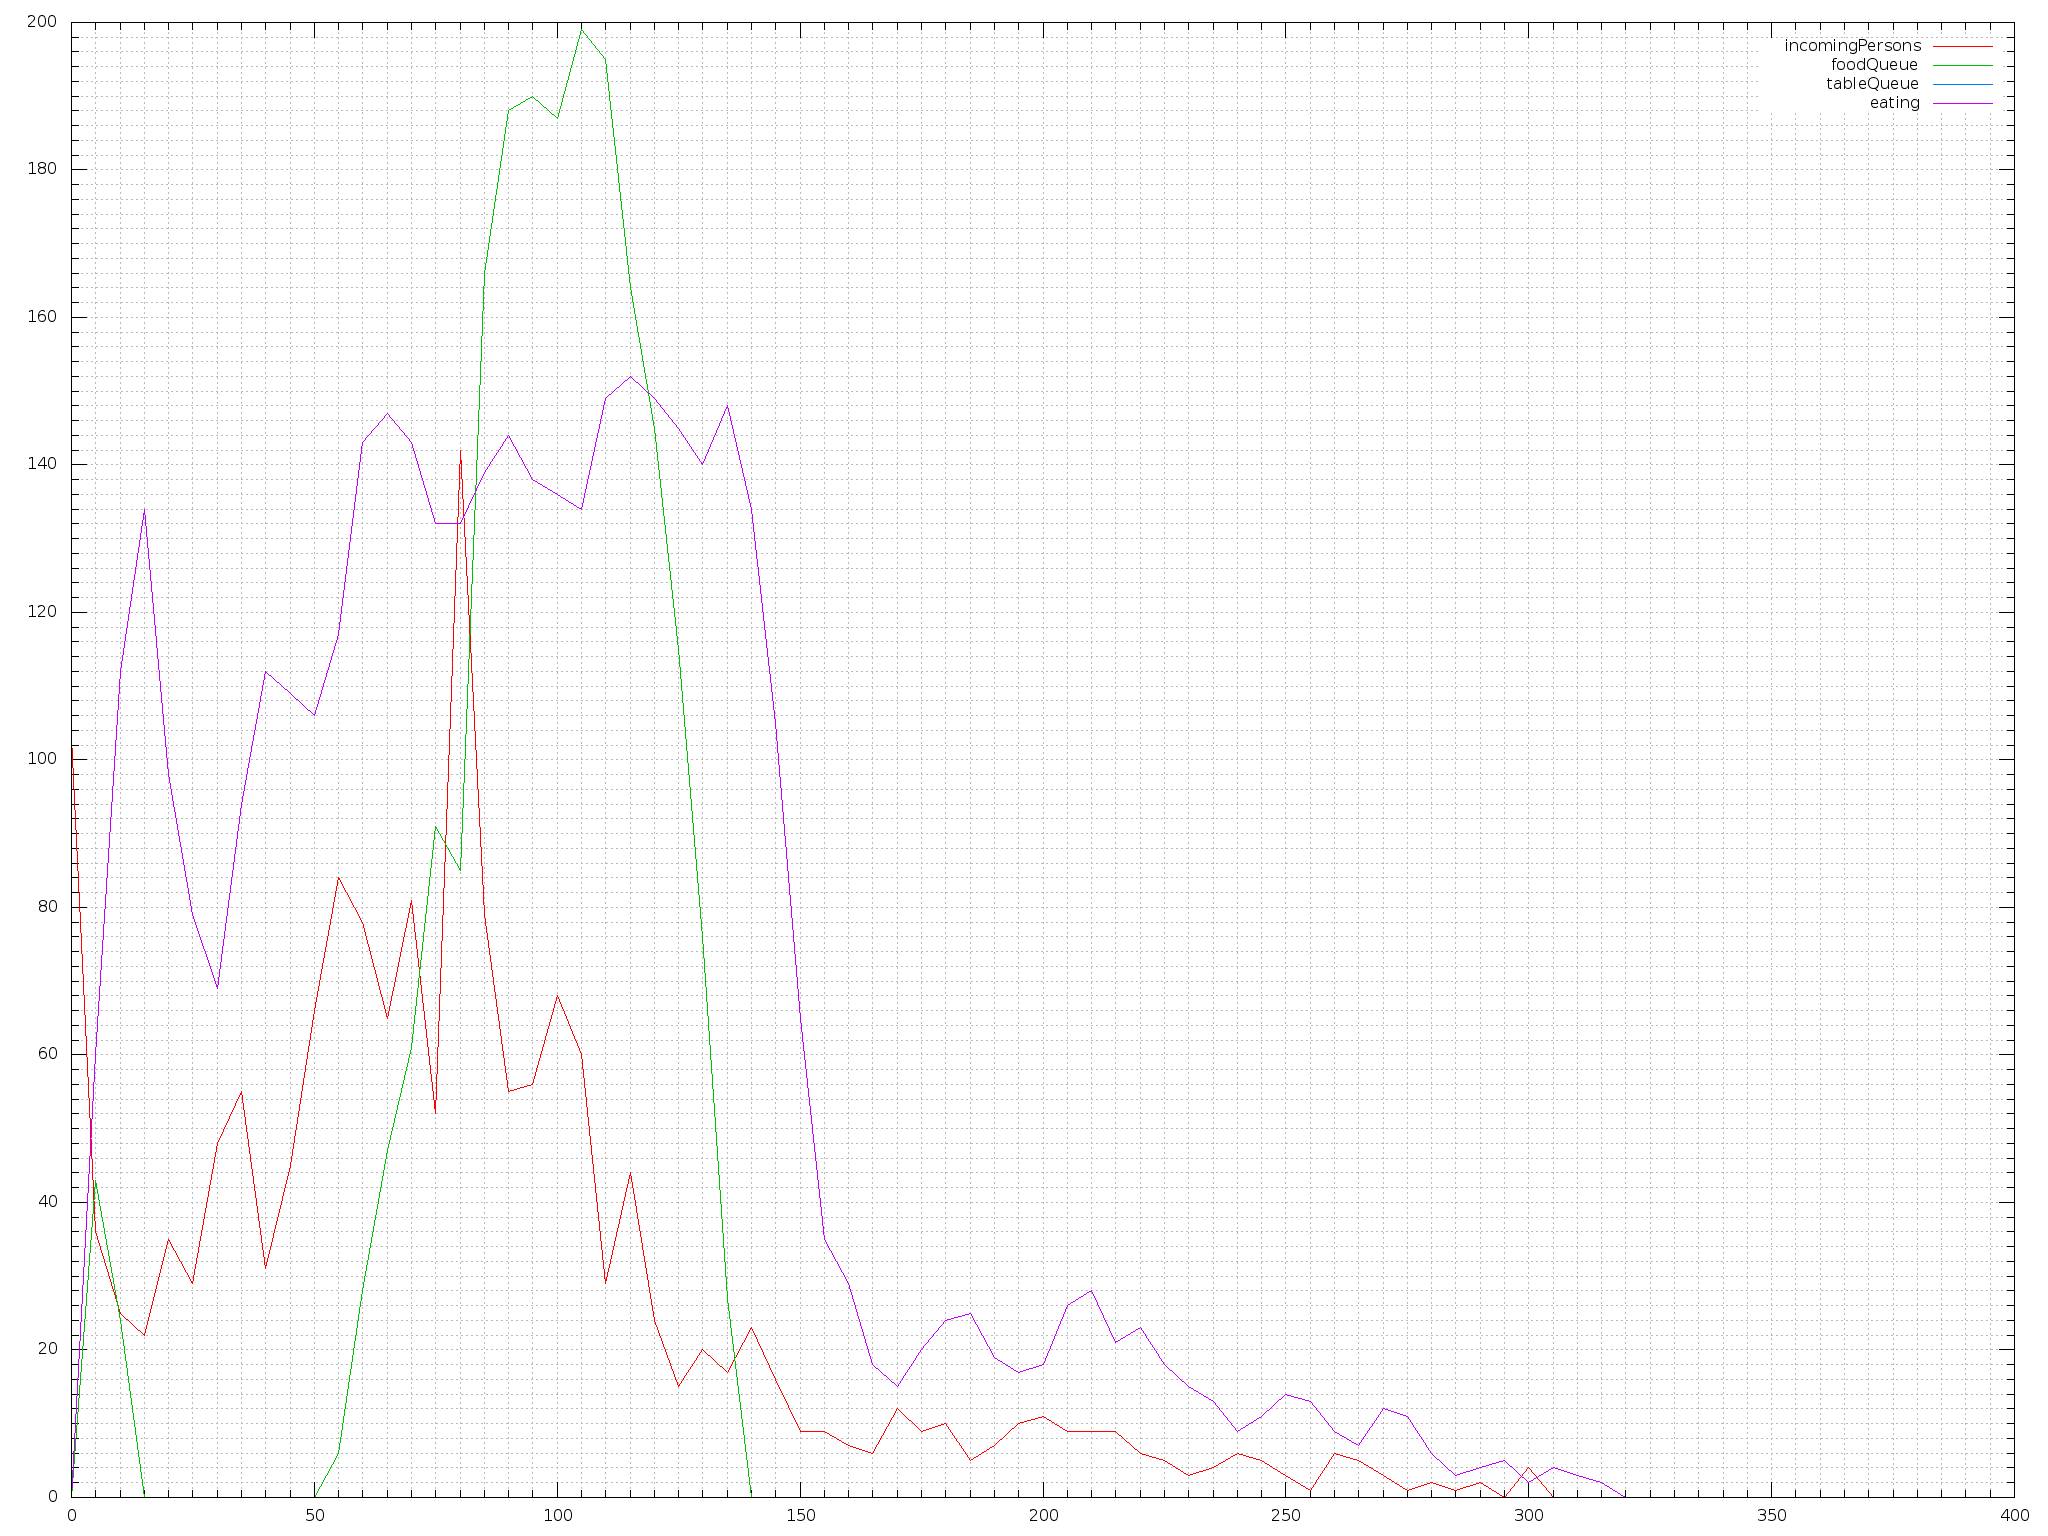
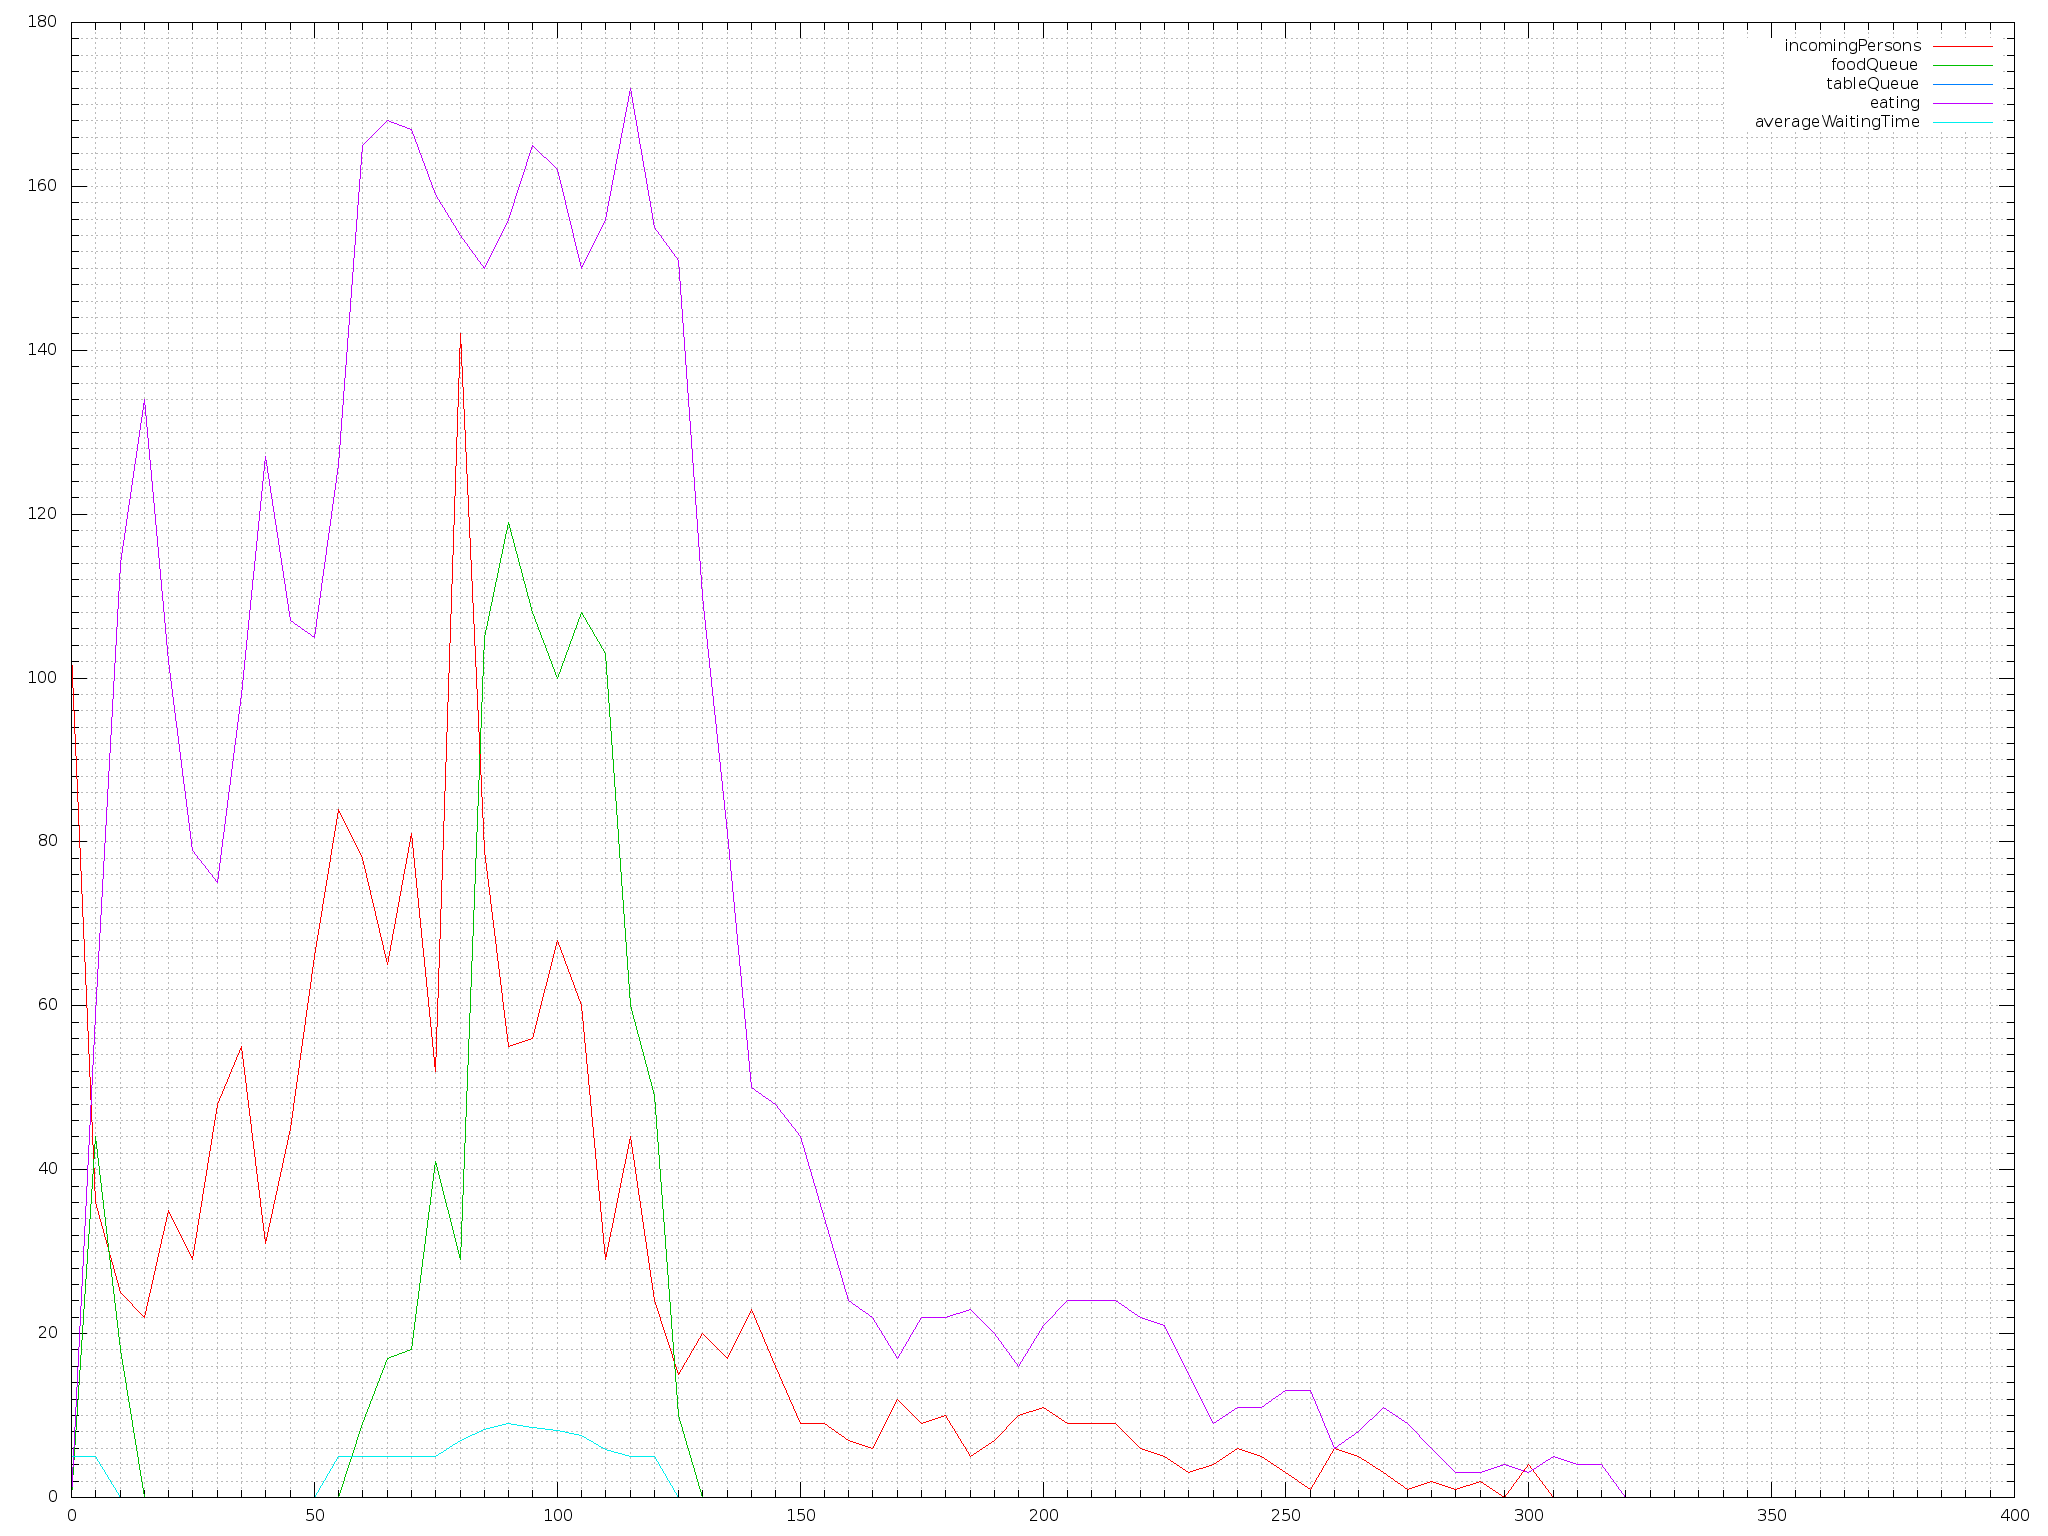
Avegare waiting time is now working, clean up packages

diff --git a/Canteen/src/canteen/CanteenSimulation.java b/Canteen/src/canteen/CanteenSimulation.java
@@ -12,6 +12,10 @@ import canteen.result.ResultsHolder;
 import java.io.IOException;
 import java.util.ArrayList;
 
+import others.CalculateAvegare;
+import others.IncomingPersons;
+import others.ParametersManager;
+
 public class CanteenSimulation {
 
 	int currentTime = 0;
@@ -67,18 +71,21 @@ public class CanteenSimulation {
 			i++;
 		}
 		
+		calculateWaitingTime();
+		
 		if(ParametersManager.isDebug()){
 			System.out.println("Total persons incoming: "+incomingPersons.getSumOfAllIncomingPersons());
 			System.out.println("Total persons in last step: "+resultHolder.getSumOfAllPersons());
+			System.out.println("Avegare waiting time: ");
+			resultHolder.writeAllWaitingTimes();
 			
 		}
+		
+		
 
 	}
 
-	public void writeDebugResults() {
-		resultHolder.writeAll();
-	}
-
+	
 	public ArrayList<Result> getResults() throws Exception {
 		ArrayList<Result> results = resultHolder.getAllResults();
 		if (results.size() > 0) {
@@ -89,52 +96,35 @@ public class CanteenSimulation {
 		}
 	}
 
-	public double howLongTakeToReachEatingStateAtTime(int atTime) {
+
+	private double howLongTakeToReachEatingStateAtTime(int atTime) {
         ArrayList<Person> personsWithTime = personHolder.getPersonsWithArrivalTime(atTime);
-        int i = 0;
-        int sum = 0;
+        ArrayList<Integer> times = new ArrayList<>();
+        
         for(Person person : personsWithTime){
         	if (person.getDispatchTime() != 0) {
-        		int diff = Math.abs(person.getDispatchTime() - person.getArrivalTime());
-        		System.out.println("----");
-        		System.out.println(atTime+": Diff "+diff);
-        		System.out.println(atTime+": Arrival "+person.getArrivalTime());
-        		System.out.println(atTime+": Dispatch "+person.getDispatchTime());
-                sum = sum + diff;
-                i++;
+        		Integer diff = person.getDispatchTime() - person.getArrivalTime();
+        		times.add(diff);
         	}
-        	else {
-        		// simulation needs more time
-        		i = 1;
-        		sum = -1;
-        		break;
-        	}
-        	
         }
         
-        // no person at this time
-        double mean = -2;
-        if (i != 0) {
-            mean = (double) sum / (double) i;
-        }
-        return mean;
+        return CalculateAvegare.calculate(times);
         
     }
-
-	public ArrayList<Double> getAllWaitingTimes() {
+	
+	
+	private void calculateWaitingTime(){
 		ArrayList<Double> waitingTimes = new ArrayList<>();
 		for (int i = 0; i < (parametersManager.getSimulationTime() * parametersManager.getSimulationStep()); i = i + parametersManager.getSimulationStep()) {
 			waitingTimes.add(howLongTakeToReachEatingStateAtTime(i));
 		}
-
-		return waitingTimes;
+		resultHolder.setWaitingTimes(waitingTimes);
 	}
 
-	public void writeAllWaitingTimes() {
-		for (Double time : getAllWaitingTimes()) {
-			System.out.println(time);
-		}
+	public ArrayList<Double> getWaitingTimes() {
+		return resultHolder.getAllWaitingTimes();
 	}
+
 
 	public void saveToCSV(String filename, String divider) throws Exception {
 		try {

diff --git a/Canteen/src/canteen/result/ResultsHolder.java b/Canteen/src/canteen/result/ResultsHolder.java
@@ -1,6 +1,5 @@
 package canteen.result;
 
-import canteen.IncomingPersons;
 import canteen.person.PersonHolder;
 import canteen.person.PersonState;
 import canteen.result.Result;
@@ -10,9 +9,12 @@ import java.io.PrintWriter;
 import java.lang.reflect.WildcardType;
 import java.util.ArrayList;
 
+import others.IncomingPersons;
+
 public class ResultsHolder {
 
 	ArrayList<Result> results = new ArrayList<>();
+	ArrayList<Double> waitingTimes = new ArrayList<>();
 
 	public void addResult(int time, PersonHolder personHolder) {
 		Result result = new Result(time,
@@ -26,6 +28,21 @@ public class ResultsHolder {
 	public ArrayList<Result> getAllResults() {
 		return results;
 	}
+	
+	public ArrayList<Double> getAllWaitingTimes(){
+		return waitingTimes;
+	}
+	
+	public void setWaitingTimes(ArrayList<Double> newWatitngTimes){
+		waitingTimes = newWatitngTimes;
+	}
+	
+	public void writeAllWaitingTimes() {
+		for (Double time : waitingTimes) {
+			System.out.println(time);
+		}
+	}
+	
 	
 	public int getSumOfAllPersons(){
 		int sum = 0;
@@ -69,7 +86,8 @@ public class ResultsHolder {
 					+ result.getNumberOfPeopleInFoodQueue() + divider
 					+ result.getNumberOfPeopleInTableQueue() + divider
 					+ result.getNumberOfPeopleEating() + divider
-					+ result.getNumberOfPeopleFinished());
+					+ result.getNumberOfPeopleFinished() + divider
+					+ waitingTimes.get(i));
 			i++;
 		}
 		writer.close();

diff --git a/Canteen/src/others/CalculateAvegare.java b/Canteen/src/others/CalculateAvegare.java
@@ -1,0 +1,39 @@
+package others;
+
+import java.util.ArrayList;
+import java.util.Collections;
+
+public class CalculateAvegare {
+	public static double calculate(ArrayList<Integer> values) {
+
+		Collections.sort(values);
+		
+		/*
+		// Calculate median (middle number)
+		double median = 0;
+		double pos1 = Math.floor((values.size() - 1.0) / 2.0);
+		double pos2 = Math.ceil((values.size() - 1.0) / 2.0);
+		if (pos1 == pos2) {
+			median = values.get((int) pos1);
+		} else {
+			median = (values.get((int) pos1) + values.get((int) pos2)) / 2.0;
+		}
+		*/
+		int sum = 0;
+		int i = 0;
+		for(int value:values){
+			if(value != 0){
+				sum = sum + value;
+				i++;
+			}
+		}
+		
+		double average = 0;
+		if(i != 0) {
+			average = (double)sum / (double)i; 
+		}
+		
+		return average;
+
+	}
+}

diff --git a/Canteen/src/canteen/Canteen.java b/Canteen/src/canteen/Canteen.java
@@ -2,6 +2,7 @@ package canteen;
 
 import java.util.ArrayList;
 
+import others.ParametersManager;
 import canteen.result.Result;
 
 public class Canteen {
@@ -31,16 +32,16 @@ public class Canteen {
 			// save results to CSV
 			simulation.saveToCSV("results.csv", ",");
 			
-			// plot graph to file
+			// plot graph to file (only unix like OS with gnuplot)
 			// simulation.plotGraph();
-
-			//simulation.writeAllWaitingTimes();
+			
 			
 			// how to get simulation results
 			ArrayList<Result> results = simulation.getResults();
-			for (Result result : results) {
-				// do what you want to do
-			}
+			
+			// how to get average waiting times
+			ArrayList<Double> waitingTimes = simulation.getWaitingTimes();
+			
 
 		} catch (Exception e) {
 			System.out.println(e.getMessage());

diff --git a/Canteen/src/others/ParametersManager.java b/Canteen/src/others/ParametersManager.java
@@ -1,4 +1,4 @@
-package canteen;
+package others;
 
 public class ParametersManager {
 
@@ -8,7 +8,7 @@ public class ParametersManager {
 	private double moveToFinishGaussianStd = 3.2042;
 	private double moveToFinishGaussianMean = 10.667;
 	private double moveToTableQueueGaussianStd = 5;
-	private double moveToTableQueueGaussianMean = 60;
+	private double moveToTableQueueGaussianMean = 65;
 	private int simulationStep = 5;
 	static private Boolean enableDebug = false;
 

diff --git a/Canteen/src/canteen/moveTo/MoveToTableQueue.java b/Canteen/src/canteen/moveTo/MoveToTableQueue.java
@@ -1,10 +1,12 @@
 package canteen.moveTo;
 
-import canteen.ParametersManager;
 import canteen.person.PersonState;
 import canteen.person.Person;
+
 import java.util.ArrayList;
 import java.util.Random;
+
+import others.ParametersManager;
 
 public class MoveToTableQueue {
 

diff --git a/Canteen/src/canteen/moveTo/MoveToEating.java b/Canteen/src/canteen/moveTo/MoveToEating.java
@@ -1,10 +1,12 @@
 package canteen.moveTo;
 
-import canteen.ParametersManager;
 import canteen.person.Person;
 import canteen.person.PersonState;
+
 import java.util.ArrayList;
 import java.util.Random;
+
+import others.ParametersManager;
 
 public class MoveToEating {
 

diff --git a/Canteen/src/canteen/moveTo/MoveToFinish.java b/Canteen/src/canteen/moveTo/MoveToFinish.java
@@ -1,10 +1,12 @@
 package canteen.moveTo;
 
-import canteen.ParametersManager;
 import canteen.person.PersonState;
 import canteen.person.Person;
+
 import java.util.ArrayList;
 import java.util.Random;
+
+import others.ParametersManager;
 
 public class MoveToFinish {
 

diff --git a/Canteen/src/canteen/result/Result.java b/Canteen/src/canteen/result/Result.java
@@ -2,7 +2,7 @@ package canteen.result;
 
 import org.omg.Dynamic.Parameter;
 
-import canteen.ParametersManager;
+import others.ParametersManager;
 
 public class Result {
     private int time = 0;

diff --git a/Canteen/src/canteen/person/PersonHolder.java b/Canteen/src/canteen/person/PersonHolder.java
@@ -2,7 +2,7 @@ package canteen.person;
 
 import java.util.ArrayList;
 
-import canteen.ParametersManager;
+import others.ParametersManager;
 
 
 public class PersonHolder {

diff --git a/Canteen/src/others/IncomingPersons.java b/Canteen/src/others/IncomingPersons.java
@@ -1,4 +1,4 @@
-package canteen;
+package others;
 
 import java.io.File;
 import java.io.FileNotFoundException;
